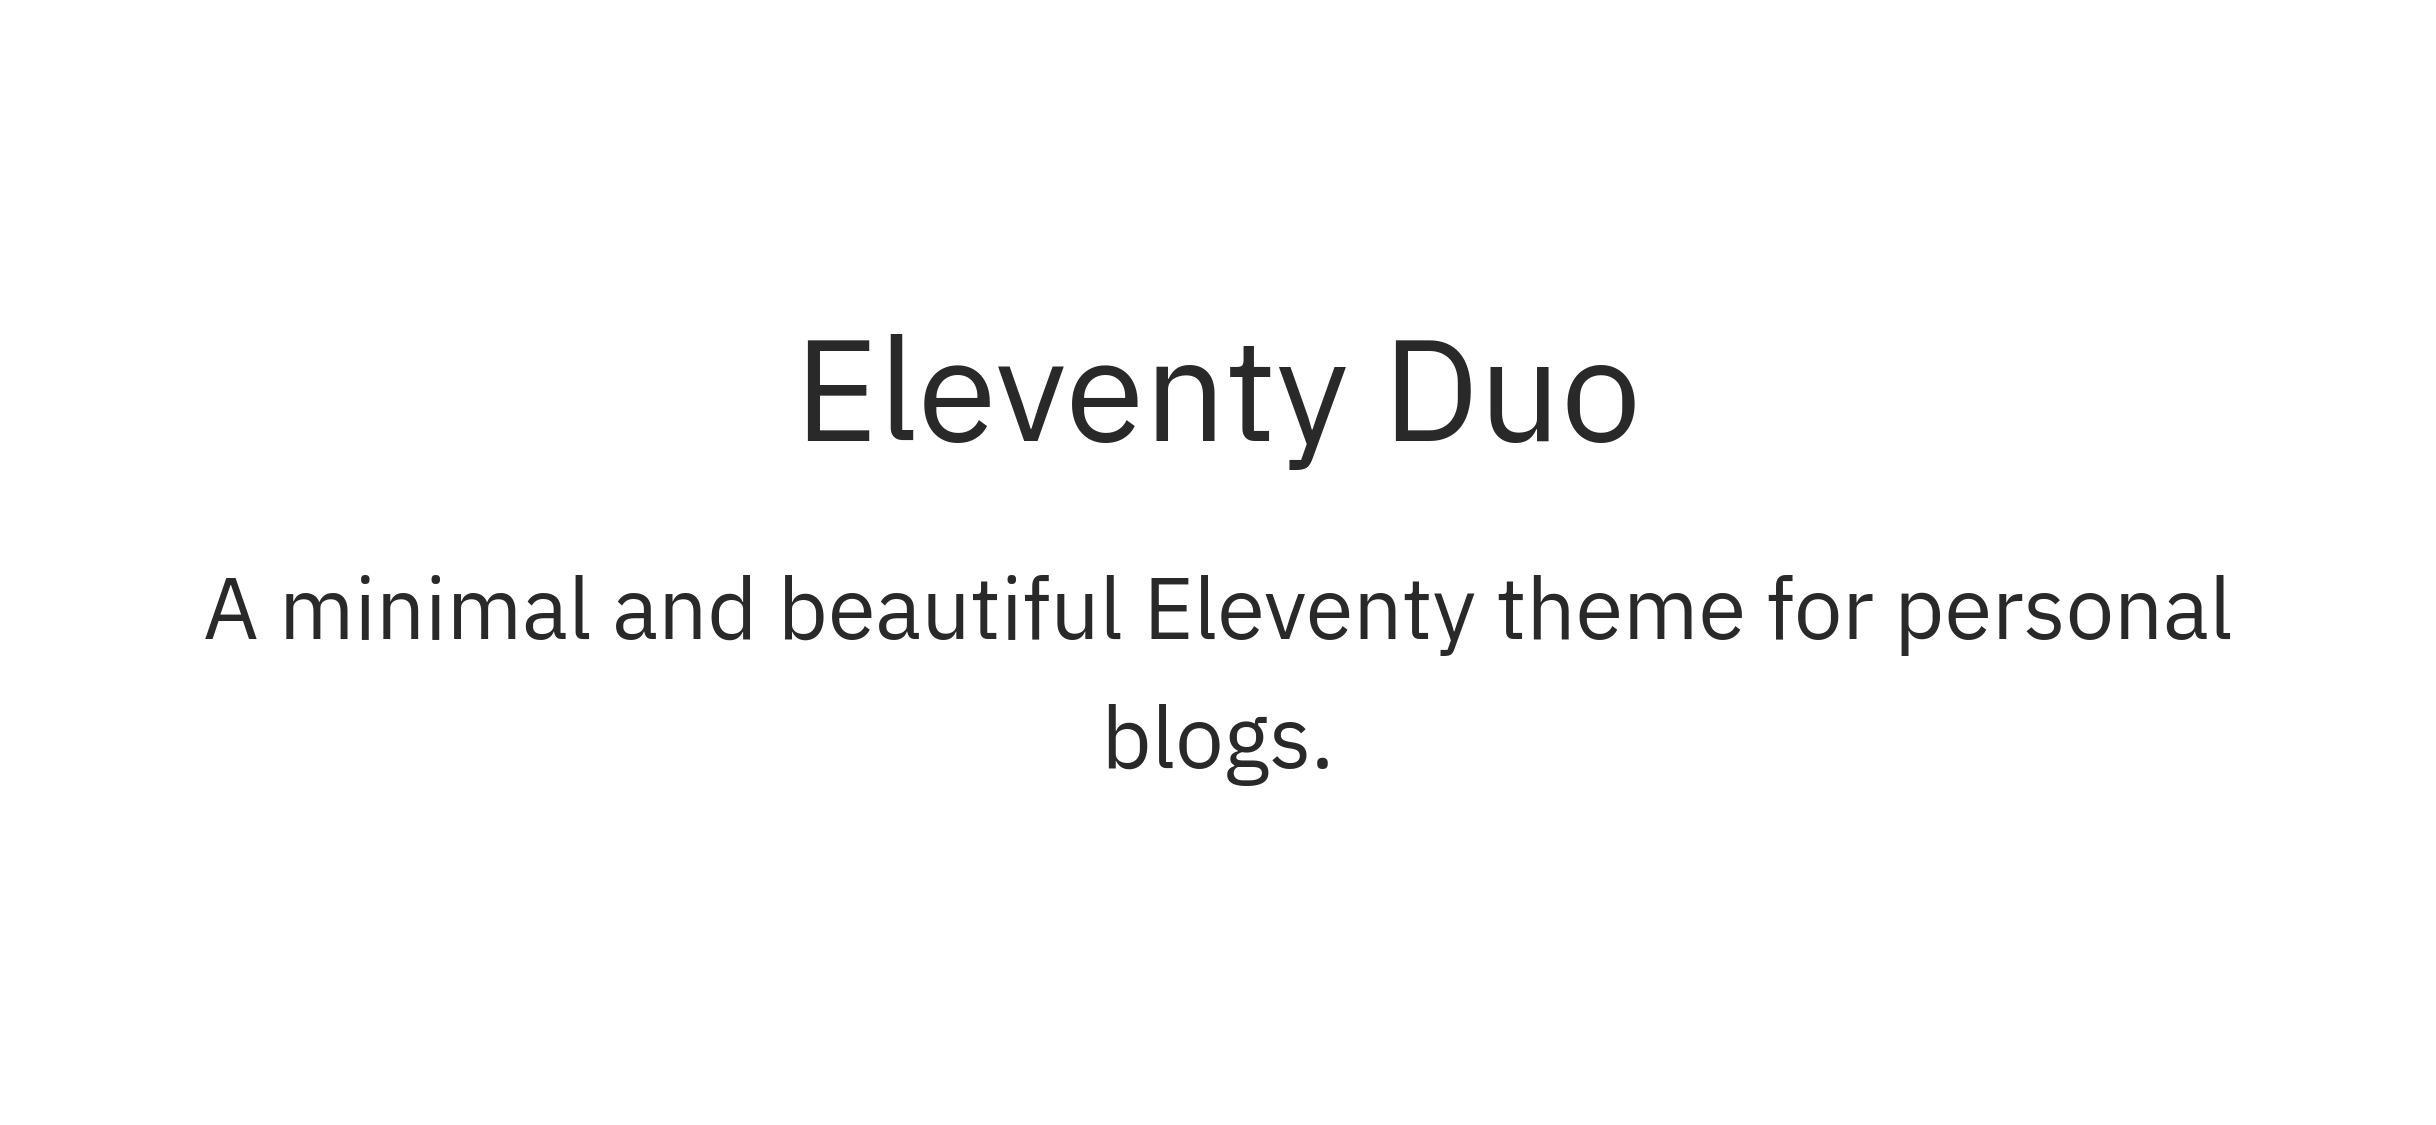
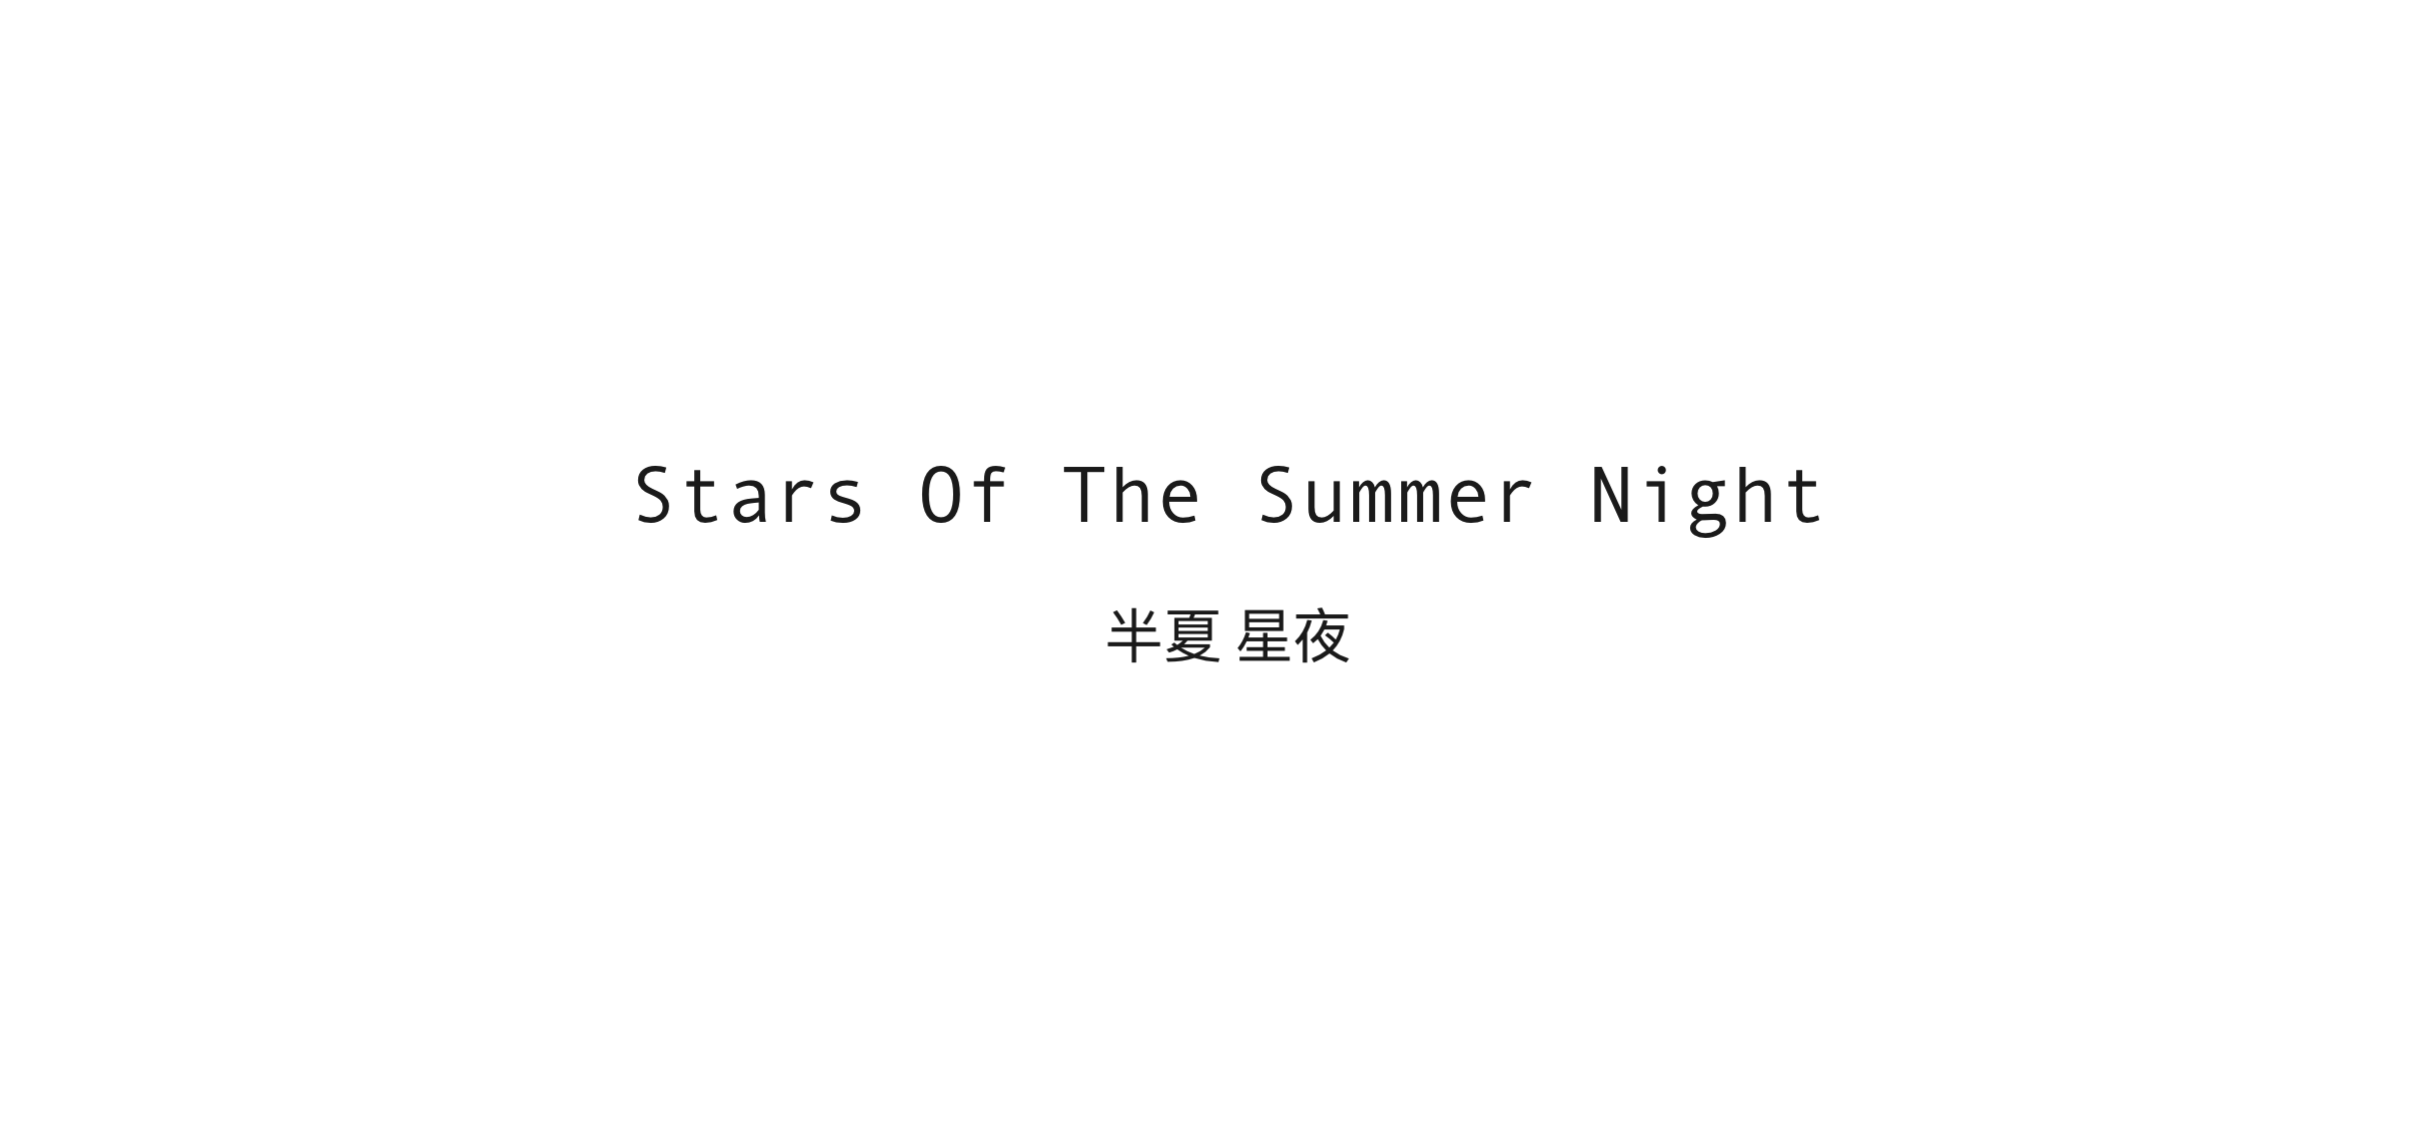
modify info

Changed region(s): [[0.2496, 0.28, 0.7488, 0.4667], [0.0624, 0.4978, 0.936, 0.5911], [0.4368, 0.6222, 0.5616, 0.7156]]

diff --git a/src/index.md b/src/index.md
@@ -1,6 +1,6 @@
 ---
 layout: home
-title: 'Eleventy Duo'
+title: '半夏星夜 Stars Of The Summer Night'
 ---
 
 寫點東西
